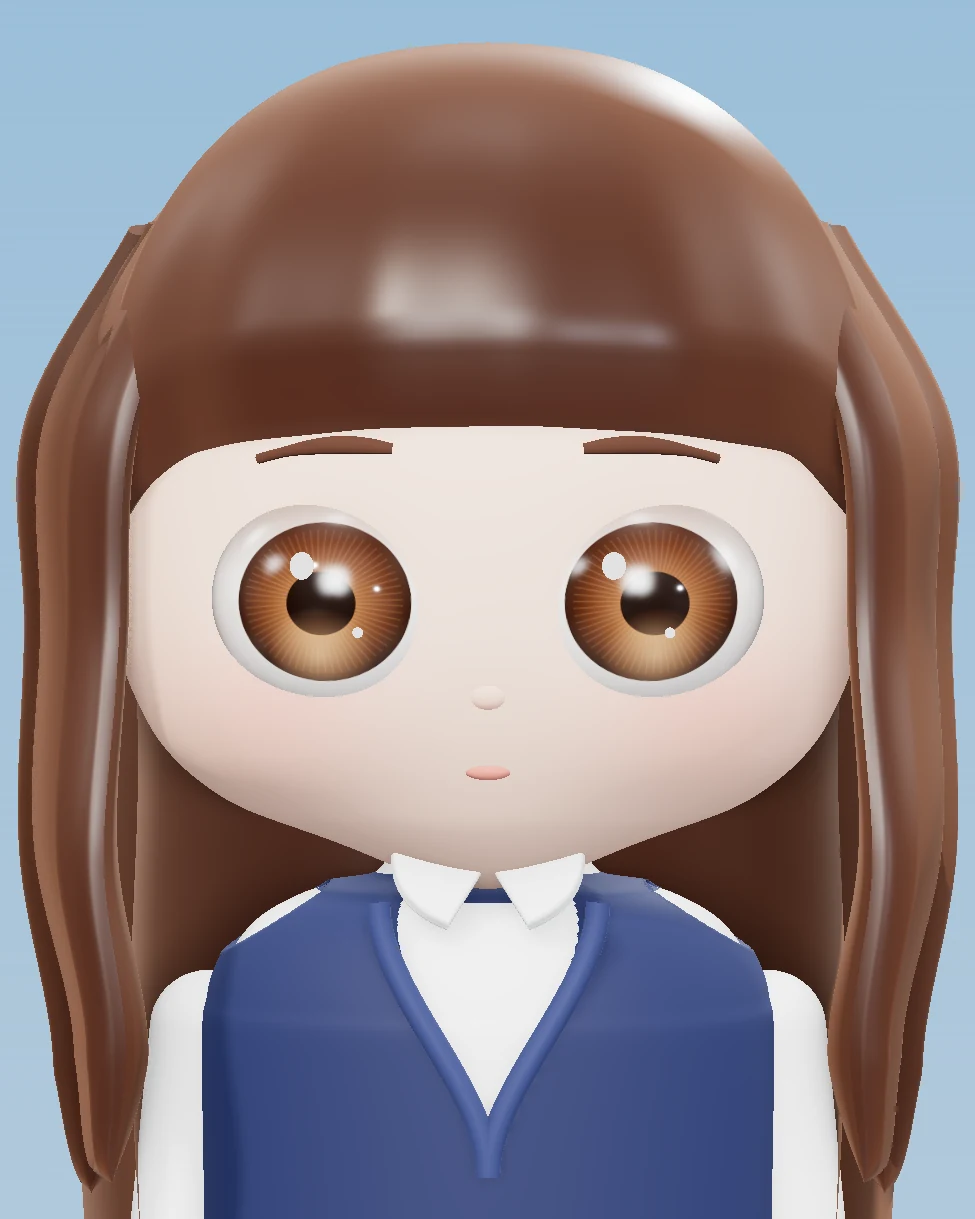
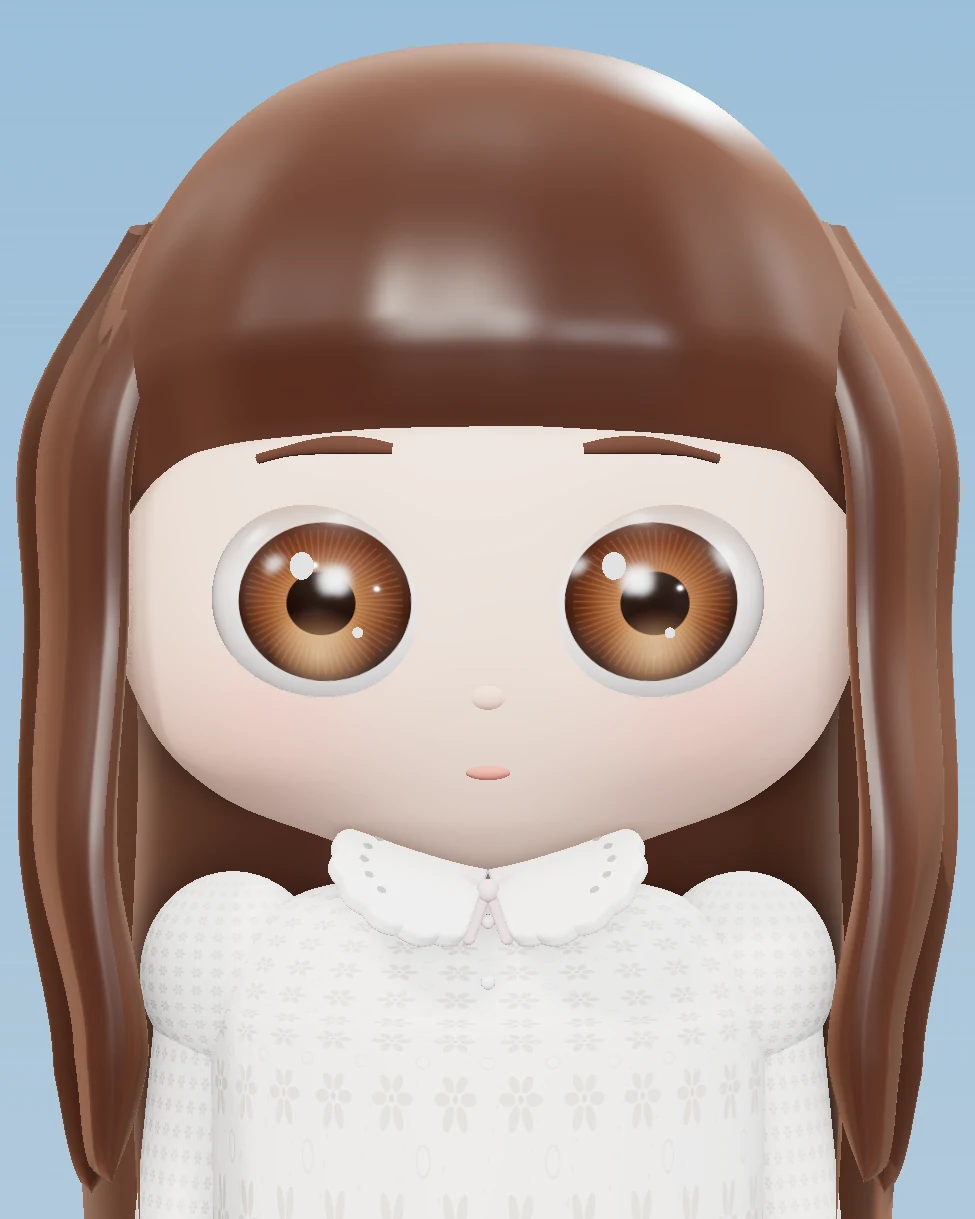
캐릭터 옷을 여성스러운 흰 레이스 블라우스로 변경
- 작은 꽃 레이스 무늬(색·요철), 물결 테두리의 둥근 레이스 깃, 목 가운데 연분홍 리본, 진주 단추, 퍼프 소매

Claude-Session: https://claude.ai/code/session_01YNCwYXwn7sKkiGeCoZHmXc

Changed region(s): [[0.1231, 0.6546, 0.8615, 1.0], [0.1231, 0.8728, 0.1538, 1.0], [0.8615, 0.9975, 0.8923, 1.0]]

diff --git a/tools/character-3d.html b/tools/character-3d.html
@@ -163,47 +163,59 @@ function lathe(prof, zs, mat, y = 0) {
   const g = new THREE.LatheGeometry(new THREE.SplineCurve(prof.map(([a, b]) => new THREE.Vector2(a, b))).getPoints(120).reverse(), 160);
   g.scale(1, 1, zs); const m = new THREE.Mesh(g, mat); m.position.y = y; m.castShadow = m.receiveShadow = true; scene.add(m); return m;
 }
-const shirtMat = new THREE.MeshPhysicalMaterial({ color: '#fbfbfa', roughness: 0.55, sheen: 0.4, sheenColor: new THREE.Color('#ffffff'), clearcoat: 0.12, clearcoatRoughness: 0.5 });
-const vestMat = new THREE.MeshPhysicalMaterial({ color: '#25325a', roughness: 0.7, sheen: 0.6, sheenColor: new THREE.Color('#5b6c9c'), sheenRoughness: 0.6, clearcoat: 0.08, clearcoatRoughness: 0.7 });
-// 목 + 흰 셔츠 몸통
+// 레이스 무늬(작은 꽃·구멍 무늬) 텍스처: 색과 요철에 함께 사용
+function laceTex() {
+  const c = document.createElement('canvas'); c.width = c.height = 256; const g = c.getContext('2d');
+  g.fillStyle = '#ffffff'; g.fillRect(0, 0, 256, 256);
+  const flower = (x, y, r) => {
+    g.fillStyle = '#d9d3cc';
+    for (let k = 0; k < 6; k++) { const a = k * Math.PI / 3; g.beginPath(); g.ellipse(x + Math.cos(a) * r, y + Math.sin(a) * r, r * 0.62, r * 0.36, a, 0, Math.PI * 2); g.fill(); }
+    g.fillStyle = '#ffffff'; g.beginPath(); g.arc(x, y, r * 0.42, 0, Math.PI * 2); g.fill();
+    g.fillStyle = '#cfc8c0'; g.beginPath(); g.arc(x, y, r * 0.22, 0, Math.PI * 2); g.fill();
+  };
+  for (const [x, y] of [[64, 64], [192, 192], [192, 64], [64, 192]]) flower(x, y, (x + y) % 128 ? 20 : 26);
+  g.strokeStyle = '#e1dbd4'; g.lineWidth = 3;
+  for (const [x, y] of [[128, 0], [0, 128], [128, 128], [128, 256], [256, 128]]) { g.beginPath(); g.arc(x, y, 14, 0, Math.PI * 2); g.stroke(); }
+  g.fillStyle = '#e6e0d9'; for (let i = 0; i < 40; i++) { const x = (i * 53) % 256, y = (i * 97) % 256; g.beginPath(); g.arc(x, y, 2.2, 0, Math.PI * 2); g.fill(); }
+  const t = new THREE.CanvasTexture(c); t.wrapS = t.wrapT = THREE.RepeatWrapping; t.colorSpace = THREE.SRGBColorSpace; t.anisotropy = 8; return t;
+}
+const lace = laceTex(); lace.repeat.set(14, 9);
+const laceBump = lace.clone(); laceBump.colorSpace = THREE.NoColorSpace; laceBump.repeat.set(14, 9); laceBump.needsUpdate = true;
+const shirtMat = new THREE.MeshPhysicalMaterial({ color: '#fffaf4', map: lace, bumpMap: laceBump, bumpScale: 1.4, roughness: 0.6, sheen: 0.7, sheenColor: new THREE.Color('#ffffff'), sheenRoughness: 0.5, clearcoat: 0.08, clearcoatRoughness: 0.6 });
+const plainLace = new THREE.MeshPhysicalMaterial({ color: '#fffaf4', roughness: 0.55, sheen: 0.7, sheenColor: new THREE.Color('#ffffff'), side: THREE.DoubleSide });
+// 목 + 레이스 블라우스 몸통
 lathe([[0.0, 1.0], [0.17, 0.98], [0.17, 0.72], [0.18, 0.62], [0.2, 0.56]], 0.7, skin('#f3c7b1'), 0);
 lathe([[0.0, 0.62], [0.2, 0.6], [0.3, 0.5], [0.48, 0.45], [0.62, 0.36], [0.7, 0.2], [0.72, 0.0], [0.7, -0.9]], 0.7, shirtMat, 0);
-// 남색 니트 조끼: V넥(앞쪽 V 영역은 셔츠 안으로 숨김), 소매 없음
-{
-  const prof = [[0.0, 0.64], [0.21, 0.62], [0.31, 0.515], [0.495, 0.465], [0.64, 0.372], [0.725, 0.2], [0.745, 0.0], [0.725, -0.9]].map(([a, b]) => new THREE.Vector2(a, b));
-  const g = new THREE.LatheGeometry(new THREE.SplineCurve(prof).getPoints(140).reverse(), 220); g.scale(1, 1, 0.72);
-  const p = g.attributes.position, v = new THREE.Vector3();
-  const vTop = 0.47, vBot = -0.2, vW = 0.27;
-  for (let i = 0; i < p.count; i++) {
-    v.fromBufferAttribute(p, i);
-    const k = smooth(vBot, vTop, v.y), halfW = vW * k;
-    // V넥과 진동둘레: 경계에서 부드럽게 셔츠 안쪽으로 가라앉힘(깔끔한 가장자리)
-    const vIn = v.z > 0 ? smooth(0.0, 0.025, halfW - Math.abs(v.x)) * smooth(vBot - 0.01, vBot + 0.03, v.y) : 0;
-    const armW = 0.42 + Math.max(0, 0.47 - v.y) * 1.6;
-    const aIn = smooth(0.0, 0.03, Math.abs(v.x) - armW) * smooth(0.0, 0.04, v.y + 0.02);
-    const sink = Math.max(vIn, aIn, smooth(0.47, 0.5, v.y));
-    v.x *= 1 - 0.12 * sink; v.z *= 1 - 0.12 * sink;
-    p.setXYZ(i, v.x, v.y, v.z);
-  }
-  g.computeVertexNormals();
-  const vest = new THREE.Mesh(g, vestMat); vest.castShadow = vest.receiveShadow = true; scene.add(vest);
-  // V넥 골지 테두리
-  const rib = new THREE.MeshPhysicalMaterial({ color: '#2e3d6b', roughness: 0.65, sheen: 0.5, sheenColor: new THREE.Color('#6d7fb0') });
-  for (const sx of [-1, 1]) {
-    const pts = [];
-    for (let k = 0; k <= 16; k++) { const y = vTop - (vTop - vBot) * (k / 16); const hw = vW * smooth(vBot, vTop, y); const x = sx * hw;
-      const rr = 0.725; const z = Math.sqrt(Math.max(0, rr * rr - x * x)) * 0.72; pts.push(new THREE.Vector3(x, y, z + 0.012)); }
-    const t = new THREE.Mesh(new THREE.TubeGeometry(new THREE.CatmullRomCurve3(pts), 48, 0.03, 12), rib); t.scale.set(1, 1, 1); t.castShadow = true; scene.add(t);
-  }
-}
-// 셔츠 깃(둥근 끝)
+// 물결 레이스 깃(둥근 피터팬 칼라, 가장자리 스캘럽)
 for (const sx of [-1, 1]) {
-  const sh = new THREE.Shape(); sh.moveTo(0, 0); sh.lineTo(sx * 0.2, -0.04); sh.quadraticCurveTo(sx * 0.2, -0.16, sx * 0.08, -0.2); sh.lineTo(0, -0.05);
-  const g = new THREE.ExtrudeGeometry(sh, { depth: 0.02, bevelEnabled: true, bevelThickness: 0.015, bevelSize: 0.015, bevelSegments: 4, curveSegments: 16 });
-  const c = new THREE.Mesh(g, shirtMat); c.position.set(sx * 0.03, 0.58, 0.38); c.rotation.x = -0.55; c.rotation.y = sx * -0.25; c.castShadow = true; scene.add(c);
+  const sh = new THREE.Shape(); sh.moveTo(0, 0.02);
+  sh.lineTo(sx * 0.22, -0.01);
+  const n = 7, cx = sx * 0.13, cy = -0.12, R = 0.12;
+  for (let k = 0; k <= n; k++) {             // 바깥 테두리를 작은 반원 물결로
+    const a0 = Math.PI * 0.35 - (k / n) * Math.PI * 1.15, a1 = Math.PI * 0.35 - ((k + 1) / n) * Math.PI * 1.15;
+    if (k === n) break;
+    const p0 = [cx + sx * Math.cos(a0) * R, cy + Math.sin(a0) * R], p1 = [cx + sx * Math.cos(a1) * R, cy + Math.sin(a1) * R];
+    const mid = [(p0[0] + p1[0]) / 2, (p0[1] + p1[1]) / 2], o = [mid[0] - cx, mid[1] - cy], ol = Math.hypot(...o);
+    sh.quadraticCurveTo(mid[0] + o[0] / ol * 0.028, mid[1] + o[1] / ol * 0.028, p1[0], p1[1]);
+  }
+  sh.lineTo(0, -0.04);
+  const g = new THREE.ExtrudeGeometry(sh, { depth: 0.012, bevelEnabled: true, bevelThickness: 0.01, bevelSize: 0.008, bevelSegments: 3, curveSegments: 12 });
+  const c = new THREE.Mesh(g, plainLace); c.scale.setScalar(1.5); c.position.set(sx * 0.02, 0.56, 0.4); c.rotation.x = -0.95; c.rotation.y = sx * -0.42; c.castShadow = true; scene.add(c);
+  // 깃 안쪽의 레이스 구멍 무늬(작은 점)
+  for (let k = 0; k < 5; k++) { const a = Math.PI * 0.25 - k * 0.42; const d = new THREE.Mesh(new THREE.CircleGeometry(0.008, 12), new THREE.MeshBasicMaterial({ color: '#d8cfc4' })); d.position.set(cx + sx * Math.cos(a) * 0.085, cy + Math.sin(a) * 0.085, 0.026); c.add(d); }
 }
-// 흰 셔츠 소매 팔
-for (const sx of [-1, 1]) { const arm = new THREE.Mesh(new THREE.CapsuleGeometry(0.15, 0.7, 12, 32), shirtMat); arm.position.set(sx * 0.76, -0.25, -0.04); arm.rotation.z = sx * 0.1; arm.castShadow = arm.receiveShadow = true; scene.add(arm); }
+// 목 가운데 작은 리본
+{ const bowMat = new THREE.MeshPhysicalMaterial({ color: '#f6d6d6', roughness: 0.45, sheen: 0.8, sheenColor: new THREE.Color('#ffe9ea') });
+  const knot = new THREE.Mesh(new THREE.SphereGeometry(0.03, 24, 16), bowMat); knot.position.set(0, 0.5, 0.53); scene.add(knot);
+  for (const sx of [-1, 1]) { const l = new THREE.Mesh(new THREE.SphereGeometry(0.05, 24, 16), bowMat); l.scale.set(1.2, 0.7, 0.45); l.position.set(sx * 0.065, 0.505, 0.52); l.rotation.z = sx * 0.25; l.castShadow = true; scene.add(l);
+    const tail = new THREE.Mesh(new THREE.CapsuleGeometry(0.016, 0.1, 8, 16), bowMat); tail.position.set(sx * 0.03, 0.43, 0.53); tail.rotation.z = sx * 0.35; scene.add(tail); } }
+// 앞섶 작은 진주 단추
+for (let k = 0; k < 4; k++) { const b = new THREE.Mesh(new THREE.SphereGeometry(0.018, 20, 14), new THREE.MeshPhysicalMaterial({ color: '#fffdf8', roughness: 0.15, clearcoat: 1, sheen: 1, sheenColor: new THREE.Color('#f3e6ff') })); const y = 0.42 - k * 0.15; b.position.set(0, y, Math.sqrt(Math.max(0, 0.68 ** 2)) * 0.7 + 0.005); scene.add(b); }
+// 퍼프 소매 + 팔
+for (const sx of [-1, 1]) {
+  const puff = new THREE.Mesh(new THREE.SphereGeometry(0.24, 48, 32), shirtMat); puff.scale.set(1, 1.1, 0.95); puff.position.set(sx * 0.66, 0.24, -0.04); puff.castShadow = puff.receiveShadow = true; scene.add(puff);
+  const arm = new THREE.Mesh(new THREE.CapsuleGeometry(0.14, 0.7, 12, 32), shirtMat); arm.position.set(sx * 0.76, -0.25, -0.04); arm.rotation.z = sx * 0.1; arm.castShadow = arm.receiveShadow = true; scene.add(arm);
+}
 
 // ---------- 머리카락 ----------
 function sheet(nu, nv, fn) {

diff --git a/js/render.js b/js/render.js
@@ -80,7 +80,7 @@ function heroBackdrop() {
 }
 // 소개 옆 캐릭터: three.js로 실제 3D 렌더링한 토이 피규어 스타일 초상(만든 장면: tools/character-3d.html)
 function aboutCharacter() {
-  return `<img class="me-char" src="assets/me-3d.webp" width="975" height="1219" alt="눈썹 위로 일자 앞머리를 내린 긴 갈색 생머리, 맑은 갈색 눈과 통통한 볼, 흰 셔츠에 남색 니트 조끼를 입은 3D 아트 토이 캐릭터" loading="lazy" decoding="async">`;
+  return `<img class="me-char" src="assets/me-3d.webp" width="975" height="1219" alt="눈썹 위로 일자 앞머리를 내린 긴 갈색 생머리, 맑은 갈색 눈과 통통한 볼, 물결 깃의 흰 레이스 블라우스를 입은 3D 아트 토이 캐릭터" loading="lazy" decoding="async">`;
 }
 function heroIllustration() {
   const books = [[40, 70, 24], [68, 52, 18], [90, 82, 26], [120, 60, 20], [144, 74, 16], [164, 48, 22], [190, 66, 18], [212, 88, 24], [240, 58, 20]];
